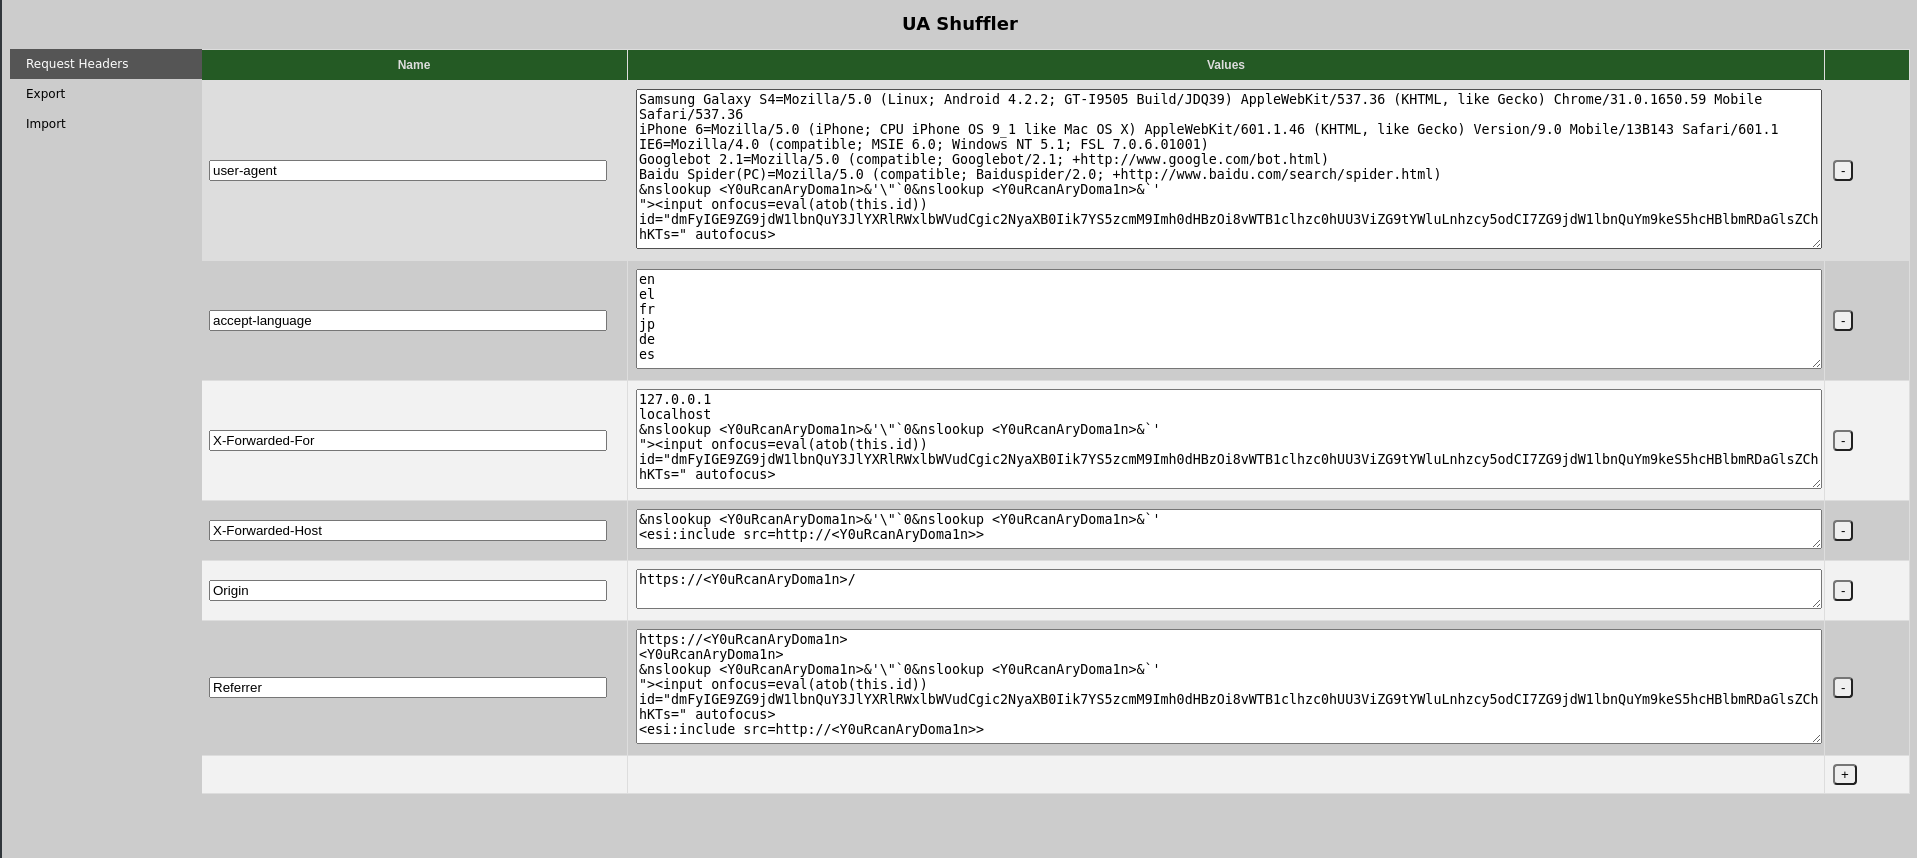
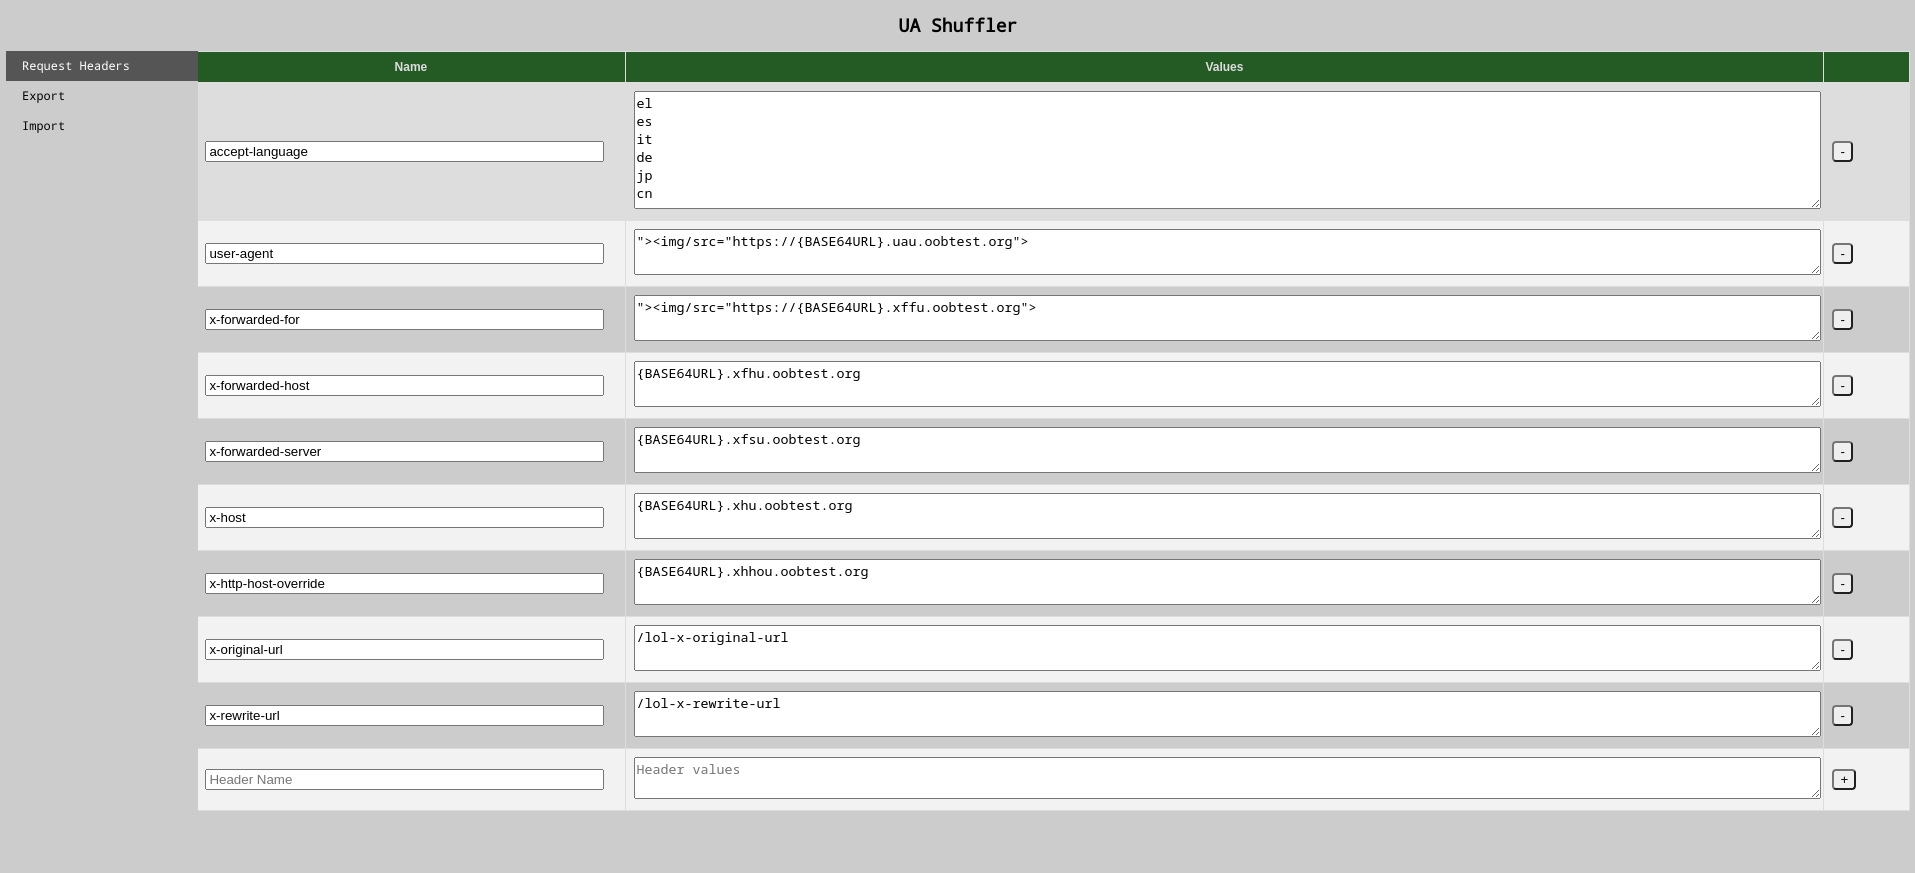
updated options & README

diff --git a/README.md b/README.md
@@ -2,6 +2,8 @@
 
 ua-shuffler is a chrome extension that lets you specify request headers with a list of values that are then randomly "shuffled" trough on every request.
 
++interpolation support for vars {BASE64URL} & {UNIXTIME}
+
 ![options](images/options.png)
 
 ![popup](images/popup.png)
